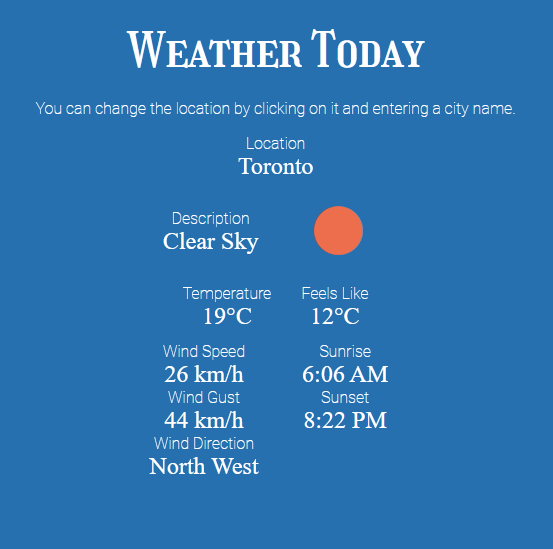
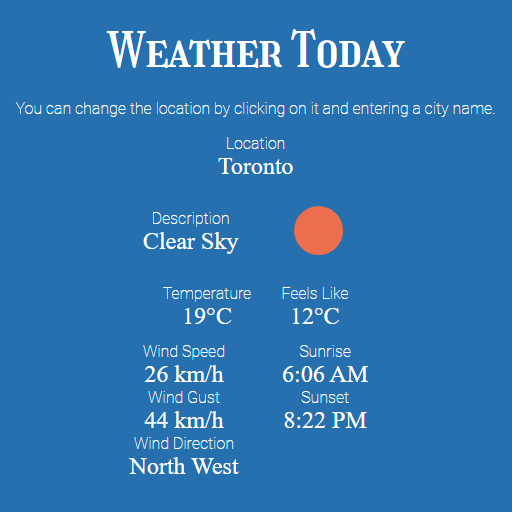
update img

diff --git a/README.md b/README.md
@@ -1,7 +1,7 @@
 # Weather Today
 This web application uses AJAX to send GET requests to OpenWeatherMap API and gets current weather data (description, temperatures, feels like, wind speed/direction, sunrise, and sunset).<br />
 
-<img src="./images/screenshot.png" alt="screenshot" width="553px" height="549px">
+<img src="./images/screenshot.png" alt="screenshot" width="274">
 
 APIs used:<br />
 <ul>
